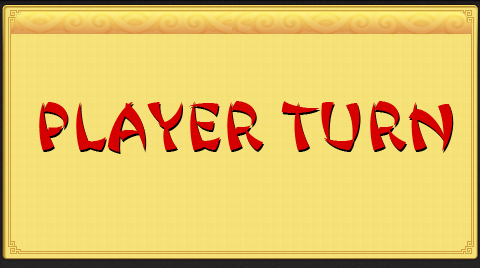
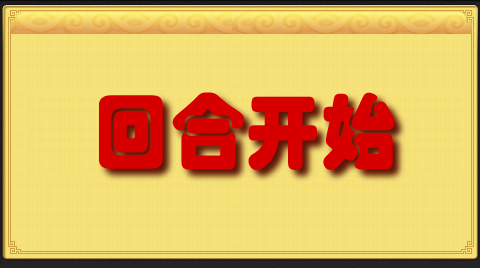
fix bug

Changed region(s): [[0.0625, 0.3284, 0.9688, 0.6866]]

diff --git a/mmodemo/demo/demo/Scene.cs b/mmodemo/demo/demo/Scene.cs
@@ -44,6 +44,7 @@ namespace demo
         private Random random = new Random();
 
         private List<RenderChunk> renderchunks = new List<RenderChunk>();
+        private List<RenderChunk> renderchunksdefer = new List<RenderChunk>();
         private List<Character> characters = new List<Character>();
         private List<Character> battlecharacters = new List<Character>();
         private List<Spell> spells = new List<Spell>();
@@ -247,8 +248,15 @@ namespace demo
                 }
                 UpdatePlayerTurn(gametime);
                 UpdateBattleResult();
+                UpdateNextActionRound(gametime);
             }
 
+            foreach (RenderChunk rc in renderchunksdefer)
+            {
+                AddRenderChunk(rc);
+            }
+            renderchunksdefer.Clear();
+            
 
             _removelist.Clear();
             foreach (RenderChunk rc in renderchunks)
@@ -289,6 +297,24 @@ namespace demo
 
             //SortRenderChunksByLayer();
         }
+
+        private void UpdateNextActionRound(GameTime gametime)
+        {
+            if (_nextactiontime > 0.0)
+            {
+                _nextactiontime -= gametime.ElapsedGameTime.TotalSeconds;
+                if (_nextactiontime <= 0.0)
+                {
+                    NextActionRound();
+                }
+            }
+        }
+
+        public void AddRenderChunkDefer(RenderChunk rc)
+        {
+            renderchunksdefer.Add(rc);
+        }
+        
 
         public void AddRenderChunk(RenderChunk rc)
         {
@@ -345,6 +371,7 @@ namespace demo
             if (battlecharacters.Count == 0)
             {
                 battlefini = true;
+                actionlist.Clear();
                 //UIMgr.AddWinDialog((int)UIMgr.UILayout.Center, (int)UIMgr.UILayout.Center, 3.0, 99, new EventHandler(OnWinDialogClose));
                 UIElement d = UIMgr.AddUIControl("Dialog_Win", "win_dlg", (int)UILayout.Center, (int)UILayout.Center, 0, 0, 3.0, 99, this);
                 if (d != null)
@@ -479,7 +506,7 @@ namespace demo
                     es = 2;
                 if (player.CompletedQuests.Contains(2)) // quest 2 completed
                     es = 3;
-                //es = 3;
+               //es = 3;
                 for (int i = 0; i < numenemy; ++i)
                 {
                     string mtmp = "";
@@ -542,6 +569,17 @@ namespace demo
                                 case "PlayerSpeed":
                                     {
                                         GameConst.PlayerSpeed = Convert.ToInt32(node.FirstChild.Value);
+                                        break;
+                                    }
+                                case "PlayerHP":
+                                    {
+                                        player.HP = Convert.ToInt32(node.FirstChild.Value);
+                                        player.MaxHP = Convert.ToInt32(node.FirstChild.Value);
+                                        break;
+                                    }
+                                case "PlayerATK":
+                                    {
+                                        player.ATK = Convert.ToInt32(node.FirstChild.Value);
                                         break;
                                     }
                             }
@@ -710,7 +748,7 @@ namespace demo
             else
                 roundturn++;
 
-            if (roundturn % 2 == 1)
+            /*if (roundturn % 2 == 1)
             {
                 //my turn
                 //UIMgr.AddPlayerTurnDialog((int)UIMgr.UILayout.Center, (int)UIMgr.UILayout.Center, 0.5, 99, new EventHandler(OnPlayerTurnDlgClose));
@@ -738,7 +776,12 @@ namespace demo
                 }
                 turn = Turn.Enemy;
             }
-
+            */
+            UIElement d = UIMgr.AddUIControl("Dialog_PlayerTurn", "playerturn_dlg", (int)UILayout.Center, (int)UILayout.Center, 0, 0, 0.5, 99, this);
+            d.OnClose += new EventHandler(OnPlayerTurnDlgClose);
+            turn = Turn.Player;
+            player.OperateTarget = null;
+            player.Operate = Character.OperateType.None;
         }
 
         /// <summary>
@@ -770,58 +813,59 @@ namespace demo
             }
         }
 
-        public void BattleRound(int turn)
+
+        
+
+        List<ActionOrder> actionlist = new List<ActionOrder>();
+        double _nextactiontime = -1.0;
+        double _nextactiontimedur = 0.5;
+        private void NextActionRound()
         {
-            if (turn == 0)
+            if (actionlist.Count > 0)
             {
-                //posb = player.Position;
-                //player.State = CharacterState.Launch;
-                //player.OnActionCompleted += new EventHandler(Player_OnActionCompleted);
-                if (player.Operate == Character.OperateType.Attack)
+                if (actionlist.Count == 1)
                 {
-                    player.AddActionSet("Launch", CharacterState.Launch, CharacterActionSetChangeFactor.AnimationCompleted, null);
-                    player.AddActionSet("Moving", CharacterState.Moving, CharacterActionSetChangeFactor.ArriveAttackTarget, player.OperateTarget);
-                    player.AddActionSet("Landing", CharacterState.Landing, CharacterActionSetChangeFactor.AnimationCompleted, null);
-                    player.AddActionSet("Attack", CharacterState.Attack, CharacterActionSetChangeFactor.AnimationCompleted, null);
-                    player.AddActionSet("Launch", CharacterState.Launch, CharacterActionSetChangeFactor.AnimationCompleted, null);
-                    player.AddActionSet("Moving", CharacterState.Moving, CharacterActionSetChangeFactor.ArriveTarget, player.Position);
-                    player.AddActionSet("Landing", CharacterState.Landing, CharacterActionSetChangeFactor.AnimationCompleted, null);
-                    player.AddActionSet("Idle", CharacterState.Idle, CharacterActionSetChangeFactor.AnimationCompleted, null);
+                    actionlist.Clear();
+                    NextRound();
+                    return;
                 }
-                else if (player.Operate == Character.OperateType.Magic)
+                if (actionlist[0].character is Player)
                 {
-                    Spell fireball = Character.CreateCharacter("fireball", this) as Spell;
-                    if (fireball != null)
+                    if (player.Operate == Character.OperateType.Attack)
                     {
-                        fireball.Layer = 15;
-                        fireball.FaceDirMethod = Character.DirMethod.Fixed;
-                        fireball.FixedDir = new Vector2(1, 0);
-                        fireball.Picture.Direction = fireball.FixedDir;
-
-                        fireball.Position = player.Position + new Vector2(100, 0);
-                        fireball.OnActionCompleted += new EventHandler(Spell_OnActionCompleted);
-                        AddSpell(fireball);
-
-                        fireball.AddActionSet("Launch", CharacterState.Launch, CharacterActionSetChangeFactor.AnimationCompleted, null);
-                        fireball.AddActionSet("Moving", CharacterState.Moving, CharacterActionSetChangeFactor.ArriveAttackTarget, player.OperateTarget);
-                        fireball.AddActionSet("Attack", CharacterState.Attack, CharacterActionSetChangeFactor.AnimationCompleted, null);
-                        fireball.AddActionSet("Idle", CharacterState.Dead, CharacterActionSetChangeFactor.AnimationCompleted, null);
+                        player.AddActionSet("Launch", CharacterState.Launch, CharacterActionSetChangeFactor.AnimationCompleted, null);
+                        player.AddActionSet("Moving", CharacterState.Moving, CharacterActionSetChangeFactor.ArriveAttackTarget, player.OperateTarget);
+                        player.AddActionSet("Landing", CharacterState.Landing, CharacterActionSetChangeFactor.AnimationCompleted, null);
+                        player.AddActionSet("Attack", CharacterState.Attack, CharacterActionSetChangeFactor.AnimationCompleted, null);
+                        player.AddActionSet("Launch", CharacterState.Launch, CharacterActionSetChangeFactor.AnimationCompleted, null);
+                        player.AddActionSet("Moving", CharacterState.Moving, CharacterActionSetChangeFactor.ArriveTarget, player.Position);
+                        player.AddActionSet("Landing", CharacterState.Landing, CharacterActionSetChangeFactor.AnimationCompleted, null);
+                        player.AddActionSet("Idle", CharacterState.Idle, CharacterActionSetChangeFactor.AnimationCompleted, null);
                     }
+                    else if (player.Operate == Character.OperateType.Magic)
+                    {
+                        Spell fireball = Character.CreateCharacter("fireball", this) as Spell;
+                        if (fireball != null)
+                        {
+                            fireball.Layer = 15;
+                            fireball.FaceDirMethod = Character.DirMethod.Fixed;
+                            fireball.FixedDir = new Vector2(1, 0);
+                            fireball.Picture.Direction = fireball.FixedDir;
 
-                  
+                            fireball.Position = player.Position + new Vector2(100, 0);
+                            fireball.OnActionCompleted += new EventHandler(Spell_OnActionCompleted);
+                            AddSpell(fireball);
+
+                            fireball.AddActionSet("Launch", CharacterState.Launch, CharacterActionSetChangeFactor.AnimationCompleted, null);
+                            fireball.AddActionSet("Moving", CharacterState.Moving, CharacterActionSetChangeFactor.ArriveAttackTarget, player.OperateTarget);
+                            fireball.AddActionSet("Attack", CharacterState.Attack, CharacterActionSetChangeFactor.AnimationCompleted, null);
+                            fireball.AddActionSet("Idle", CharacterState.Dead, CharacterActionSetChangeFactor.AnimationCompleted, null);
+                        }
+                    }
                 }
-
-            }
-            else if (turn == 1)
-            {
-                //pick monster
-                if (battlecharacters.Count > 0)
+                else
                 {
-                    int idx = random.Next(battlecharacters.Count);
-                    Monster monster = battlecharacters[idx] as Monster;
-                    //mposb = monster.Position;
-                    //monster.AttackTarget = player;
-                    //monster.State = CharacterState.Launch;
+                    Monster monster = actionlist[0].character as Monster;
                     monster.AddActionSet("Launch", CharacterState.Launch, CharacterActionSetChangeFactor.AnimationCompleted, null);
                     monster.AddActionSet("Moving", CharacterState.Moving, CharacterActionSetChangeFactor.ArriveAttackTarget, player);
                     monster.AddActionSet("Landing", CharacterState.Landing, CharacterActionSetChangeFactor.AnimationCompleted, null);
@@ -831,8 +875,56 @@ namespace demo
                     monster.AddActionSet("Landing", CharacterState.Landing, CharacterActionSetChangeFactor.AnimationCompleted, null);
                     monster.AddActionSet("Idle", CharacterState.Idle, CharacterActionSetChangeFactor.AnimationCompleted, null);
                 }
+
+                actionlist[0].character.Order = null;
+                actionlist.RemoveAt(0);
+
+                
+            }
+        }
+
+       
+        public void BattleRound(int turn)
+        {
+            //generate actionlist
+            actionlist.Clear();
+            actionlist.Add(new ActionOrder(null, 100));
+            player.Order = new ActionOrder(player, random.Next(10, 20));
+            actionlist.Add(player.Order);
+            foreach(Monster m in battlecharacters)
+            {
+                m.Order = new ActionOrder(m, random.Next(10, 20));
+                actionlist.Add(m.Order);
+            }
+
+            actionlist.Sort();
+
+            GoNextActionRound();
+            if (turn == 0)
+            {
+                //posb = player.Position;
+                //player.State = CharacterState.Launch;
+                //player.OnActionCompleted += new EventHandler(Player_OnActionCompleted);
+                
+
+            }
+            else if (turn == 1)
+            {
+                //pick monster
+                if (battlecharacters.Count > 0)
+                {
+                    //mposb = monster.Position;
+                    //monster.AttackTarget = player;
+                    //monster.State = CharacterState.Launch;
+                   
+                }
                 //monster.OnActionCompleted += new EventHandler(Monster_OnActionCompleted);
             }
+        }
+
+        private void GoNextActionRound()
+        {
+            _nextactiontime = _nextactiontimedur;
         }
 
 
@@ -843,7 +935,8 @@ namespace demo
             {
                 spell.Picture.State = RenderChunk.RenderChunkState.FadeOutToDel;
                 spells.Remove(spell);
-                NextRound();
+                //NextRound();
+                GoNextActionRound();
                 return;
             }
            
@@ -853,20 +946,21 @@ namespace demo
         protected void Monster_OnActionCompleted(object sender, EventArgs e)
         {
             Monster monster = sender as Monster;
-            if (monster.State == CharacterState.BeAttack)
+            /*if (monster.State == CharacterState.BeAttack)
             {
                 monster.State = CharacterState.Idle;
                 return;
-            }
+            }*/
             if (monster.State == CharacterState.Dead)
             {
                 monster.Picture.State = RenderChunk.RenderChunkState.FadeOutToDel;
                 monster.Title.State = RenderChunk.RenderChunkState.FadeOutToDel;
                 battlecharacters.Remove(monster);
+                actionlist.Remove(monster.Order);
                 return;
             }
 
-            NextRound();
+            GoNextActionRound();
             /*if (monster.State == CharacterState.Idle)
             {
                 if (monster.AttackTarget != null)
@@ -907,14 +1001,21 @@ namespace demo
             }
             else
             {
-                if (player.State != CharacterState.BeAttack)
+                if (player.State == CharacterState.Dead)
                 {
-                    NextRound();
+                    ReturnMap();
+                    return;
+                }
+                GoNextActionRound();
+                /*if (player.State != CharacterState.BeAttack)
+                {
+                    //NextRound();
+                    NextActionRound();
                 }
                 else
                 {
                     player.State = CharacterState.Idle;
-                }
+                }*/
             }
             /*if (player.State == CharacterState.Idle)
             {

diff --git a/mmodemo/demo/demo/Character.cs b/mmodemo/demo/demo/Character.cs
@@ -75,6 +75,26 @@ namespace demo
         public Character interactive;
         public string effectname;
     };
+
+    public class ActionOrder : IComparable
+    {
+        public Character character;
+        int speed;
+
+        public ActionOrder(Character c, int s)
+        {
+            character = c;
+            speed = s;
+        }
+
+        public int CompareTo(object obj)
+        {
+            ActionOrder c = obj as ActionOrder;
+            return speed - c.speed;
+        }
+    }
+
+
     public class Character
     {
         public enum DirMethod
@@ -169,6 +189,8 @@ namespace demo
             }
         }
 
+        public ActionOrder Order { get; set; }
+
         public string Name
         {
             get
@@ -252,7 +274,7 @@ namespace demo
                 pic = value;
                 if (scene != null)
                 {
-                    scene.AddRenderChunk(pic);
+                    scene.AddRenderChunkDefer(pic);
                 }
             }
         }
@@ -629,6 +651,8 @@ namespace demo
                     AddActionSet("Dead", CharacterState.Dead, CharacterActionSetChangeFactor.AnimationCompleted, null);
                     offense.Notify(GameAction.Kill, this.templateid, 1);
                 }
+                else
+                    AddActionSet("Idle", CharacterState.Idle, CharacterActionSetChangeFactor.Immediate, null);
             }
             catch (NullReferenceException)
             {

diff --git a/mmodemo/demo/demo/Player.cs b/mmodemo/demo/demo/Player.cs
@@ -19,7 +19,7 @@ namespace demo
         public Player(string n, Scene s) :
             base(n, s)
         {
-            atk = 1234;
+            atk = 134;
             def = 22;
         }
 
